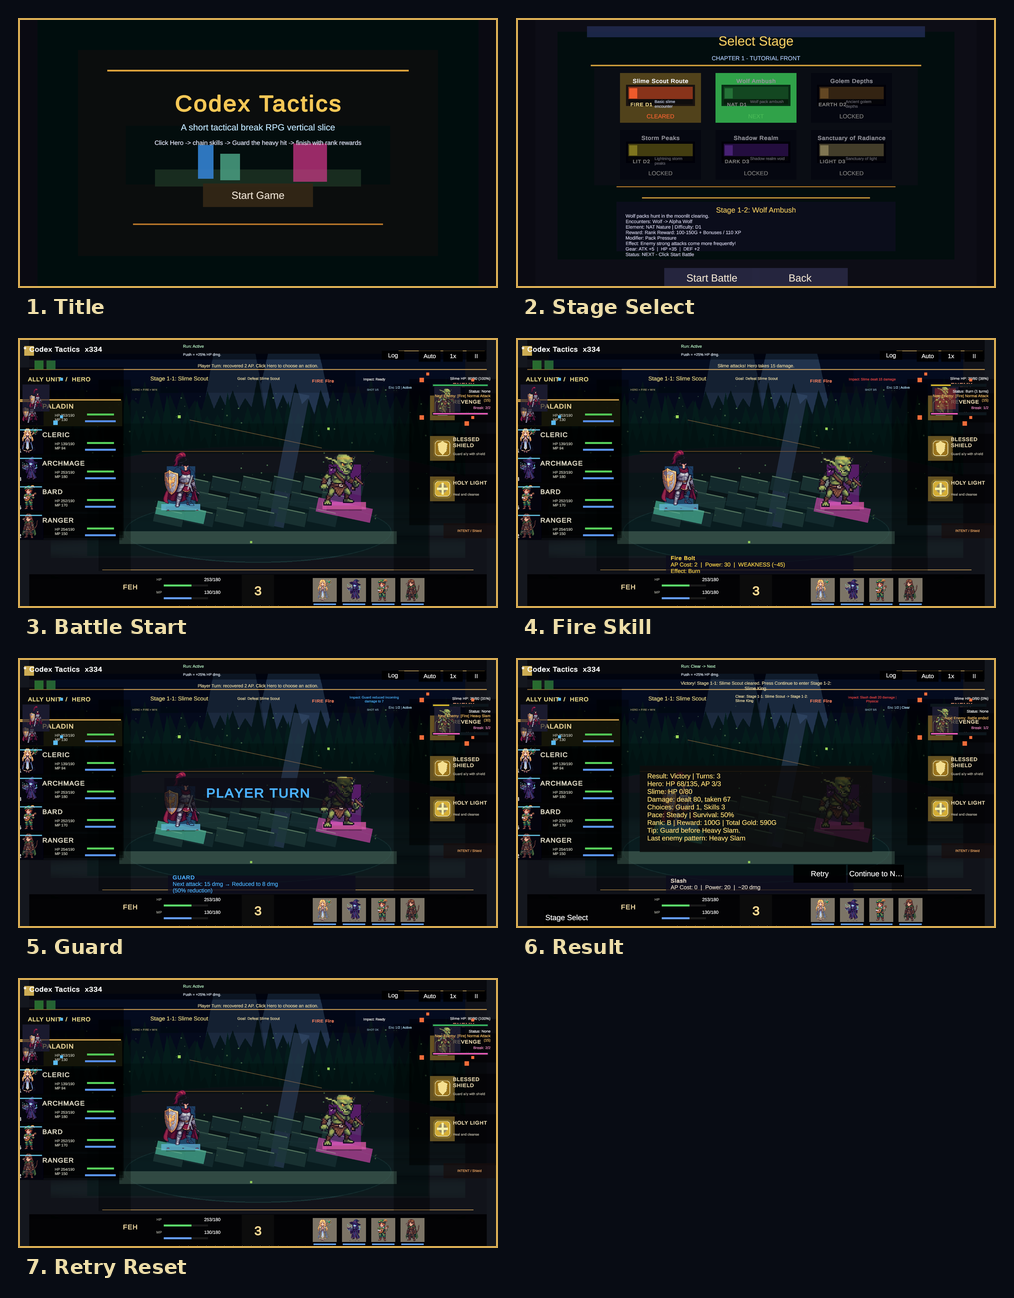
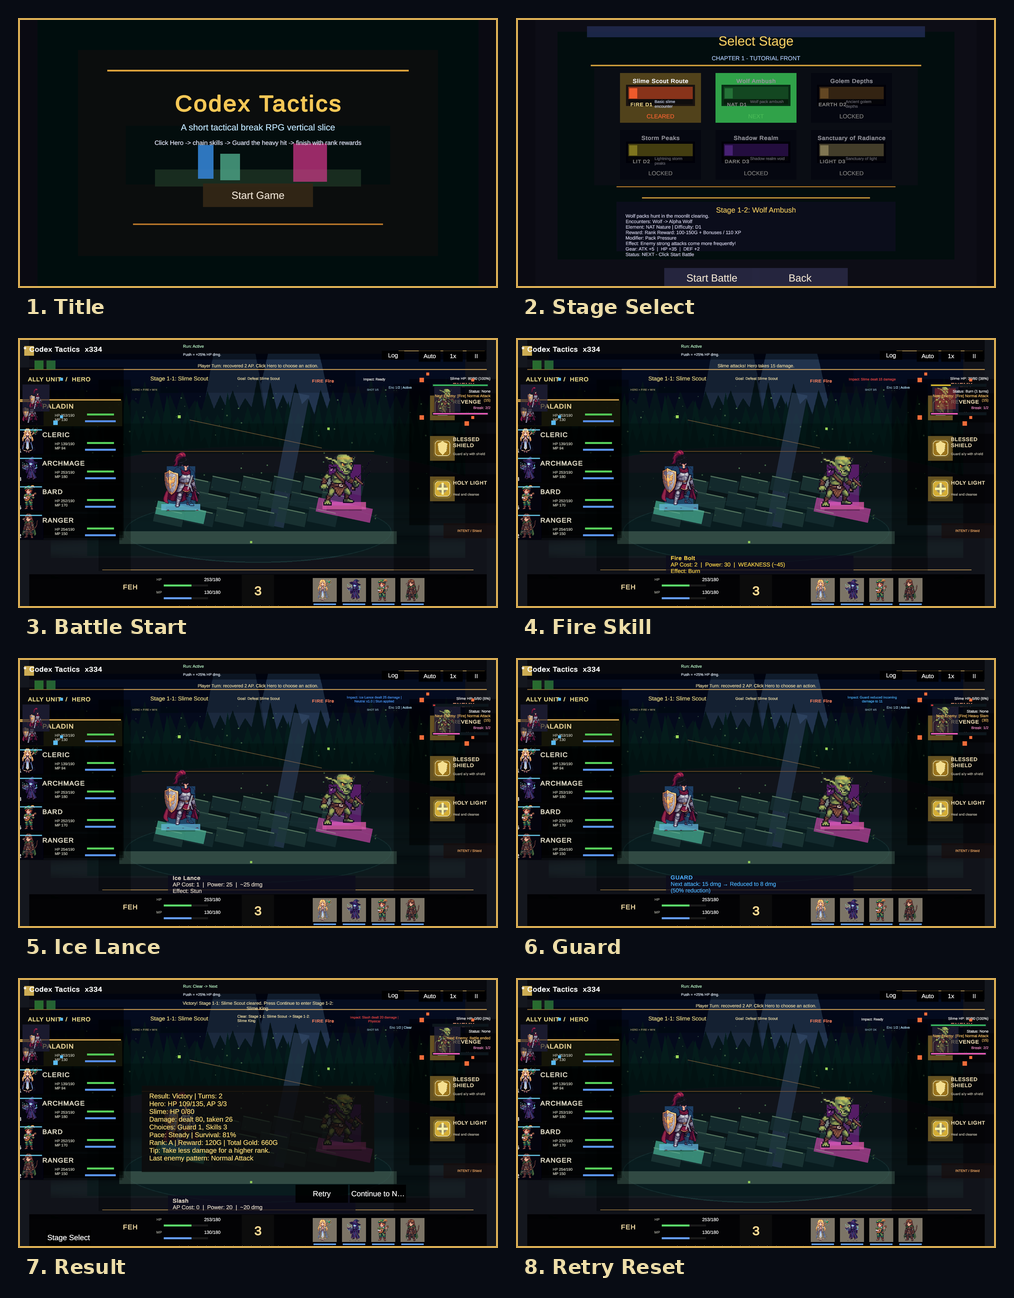
Add ice lance capture evidence

diff --git a/GamePortfolio/Docs/Captures/build_capture_contact_sheet.py b/GamePortfolio/Docs/Captures/build_capture_contact_sheet.py
@@ -1,0 +1,76 @@
+#!/usr/bin/env python3
+"""Build the portfolio capture contact sheet from deterministic capture PNGs.
+
+Run from the Unity project root:
+
+    python3 Docs/Captures/build_capture_contact_sheet.py
+"""
+
+from __future__ import annotations
+
+from pathlib import Path
+from typing import Any
+
+from PIL import Image, ImageDraw, ImageFont
+
+CAPTURE_DIR = Path(__file__).resolve().parent
+OUTPUT = CAPTURE_DIR / "capture_contact_sheet.png"
+THUMB_SIZE = (480, 270)
+PADDING = 18
+LABEL_HEIGHT = 32
+COLUMNS = 2
+ITEMS = [
+    ("1. Title", "00_title_scene.png"),
+    ("2. Stage Select", "00_stage_select_scene.png"),
+    ("3. Battle Start", "01_battle_start.png"),
+    ("4. Fire Skill", "02_fire_skill_burn.png"),
+    ("5. Ice Lance", "03_ice_lance_stun.png"),
+    ("6. Guard", "03_guard_status.png"),
+    ("7. Result", "04_result_summary_rank.png"),
+    ("8. Retry Reset", "05_retry_reset.png"),
+]
+
+
+def load_font(size: int) -> Any:
+    for candidate in [
+        "/usr/share/fonts/truetype/dejavu/DejaVuSans-Bold.ttf",
+        "/usr/share/fonts/truetype/liberation2/LiberationSans-Bold.ttf",
+    ]:
+        path = Path(candidate)
+        if path.exists():
+            return ImageFont.truetype(str(path), size)
+    return ImageFont.load_default()
+
+
+def main() -> None:
+    missing = [filename for _, filename in ITEMS if not (CAPTURE_DIR / filename).exists()]
+    if missing:
+        raise SystemExit("Missing capture PNGs: " + ", ".join(missing))
+
+    rows = (len(ITEMS) + COLUMNS - 1) // COLUMNS
+    width = COLUMNS * (THUMB_SIZE[0] + PADDING) + PADDING
+    height = rows * (THUMB_SIZE[1] + LABEL_HEIGHT + PADDING) + PADDING
+    sheet = Image.new("RGB", (width, height), (8, 12, 20))
+    draw = ImageDraw.Draw(sheet)
+    font = load_font(20)
+
+    for index, (label, filename) in enumerate(ITEMS):
+        with Image.open(CAPTURE_DIR / filename) as source:
+            thumb = source.convert("RGB").resize(THUMB_SIZE, Image.Resampling.LANCZOS)
+        x = PADDING + (index % COLUMNS) * (THUMB_SIZE[0] + PADDING)
+        y = PADDING + (index // COLUMNS) * (THUMB_SIZE[1] + LABEL_HEIGHT + PADDING)
+        sheet.paste(thumb, (x, y))
+        draw.rectangle(
+            [x, y, x + THUMB_SIZE[0] - 1, y + THUMB_SIZE[1] - 1],
+            outline=(214, 171, 83),
+            width=2,
+        )
+        draw.text((x + 8, y + THUMB_SIZE[1] + 7), label, fill=(240, 224, 170), font=font)
+
+    sheet.save(OUTPUT, optimize=True)
+    print(f"Wrote {OUTPUT}")
+    print(f"Contact sheet: {width}x{height}, {len(ITEMS)} captures, {OUTPUT.stat().st_size} bytes")
+
+
+if __name__ == "__main__":
+    main()

diff --git a/GamePortfolio/Assets/Scripts/ScreenshotCaptureJob.cs b/GamePortfolio/Assets/Scripts/ScreenshotCaptureJob.cs
@@ -105,6 +105,21 @@ public class ScreenshotCaptureJob : MonoBehaviour
         Debug.Log($"[Capture] Saved ({bytes.Length} bytes): {path}");
     }
 
+    private static void PreparePortfolioCaptureProgress()
+    {
+        // Keep standalone capture evidence deterministic and showcase-ready even when the
+        // local save file is fresh or stale. Unlocking through ProgressState only affects
+        // the transient capture run; it does not write to SaveManager.
+        ProgressState.Reset();
+        ProgressState.MarkStageCompleted(0);
+        ProgressState.MarkStageCompleted(1);
+        ProgressState.MarkStageCompleted(2);
+        ProgressState.PlayerLevel = 3;
+        ProgressState.PlayerXp = 40;
+        ProgressState.TotalGold = 480;
+        ProgressState.EnsureStarterEquipment();
+    }
+
     private IEnumerator CaptureSequence()
     {
         yield return new WaitForSeconds(1.5f);
@@ -127,7 +142,8 @@ public class ScreenshotCaptureJob : MonoBehaviour
             yield break;
         }
 
-        Debug.Log("[Capture] BattleManager found. Starting capture.");
+        PreparePortfolioCaptureProgress();
+        Debug.Log("[Capture] BattleManager found. Starting capture with showcase skill unlocks.");
 
         yield return Capture("01_battle_start.png");
         yield return new WaitForSeconds(1.0f);
@@ -135,6 +151,11 @@ public class ScreenshotCaptureJob : MonoBehaviour
         manager.OnClickFireSkillButton();
         yield return new WaitForSeconds(4.0f);
         yield return Capture("02_fire_skill_burn.png");
+        yield return new WaitForSeconds(0.5f);
+
+        manager.OnClickIceSkillButton();
+        yield return new WaitForSeconds(4.0f);
+        yield return Capture("03_ice_lance_stun.png");
         yield return new WaitForSeconds(0.5f);
 
         manager.OnClickGuardButton();

diff --git a/GamePortfolio/Docs/Captures/build_runtime_motion_storyboard.py b/GamePortfolio/Docs/Captures/build_runtime_motion_storyboard.py
@@ -40,7 +40,8 @@ class Beat:
 # Use the frames most likely to show motion/VFX/readable combat feedback.
 BEATS = [
     Beat("01_battle_start.png", "Runtime setup: selected ally, tactical HUD, target lane", 5, 1.00, 1.03, -0.05, -0.02),
-    Beat("02_fire_skill_burn.png", "Action beat: Fire Skill impact, projectile/VFX, Burn feedback", 7, 1.02, 1.10, 0.12, -0.03),
+    Beat("02_fire_skill_burn.png", "Action beat: Fire Skill impact, projectile/VFX, Burn feedback", 6, 1.02, 1.10, 0.12, -0.03),
+    Beat("03_ice_lance_stun.png", "Action beat: Ice Lance follow-up and Stun feedback", 6, 1.02, 1.09, 0.10, -0.02),
     Beat("03_guard_status.png", "Defense beat: Guard status and enemy-response readability", 6, 1.00, 1.07, -0.10, 0.04),
     Beat("04_result_summary_rank.png", "Resolution beat: result metrics, rank, reward, clear state", 6, 1.01, 1.05, 0.02, 0.08),
     Beat("05_retry_reset.png", "Loop beat: retry reset ready for another run", 5, 1.00, 1.04, -0.04, -0.05),
@@ -170,8 +171,11 @@ def validate_output(expected_frames: int) -> None:
         raise SystemExit(f"Motion storyboard GIF is too large for README use: {size} bytes")
 
     with Image.open(PREVIEW_SHEET) as preview:
-        if preview.size != (240 * len(BEATS), 135):
-            raise SystemExit(f"Unexpected preview sheet size: {preview.size}")
+        columns = 5
+        rows = (len(BEATS) + columns - 1) // columns
+        expected_preview_size = (240 * columns, 135 * rows)
+        if preview.size != expected_preview_size:
+            raise SystemExit(f"Unexpected preview sheet size: {preview.size}, expected {expected_preview_size}")
 
 
 def main() -> None:

diff --git a/GamePortfolio/Docs/Captures/build_readme_gif.py b/GamePortfolio/Docs/Captures/build_readme_gif.py
@@ -25,8 +25,9 @@ FRAMES = [
     ("00_title_scene.png", "Title -> Stage Select -> Battle vertical slice", 850),
     ("00_stage_select_scene.png", "Stage Select: modifier preview and start flow", 950),
     ("01_battle_start.png", "Battle start: tactical HUD, HP/AP bars, rosters", 950),
-    ("02_fire_skill_burn.png", "Fire Skill: projectile, impact, Burn feedback", 1100),
-    ("03_guard_status.png", "Guard: defensive status and enemy response", 1100),
+    ("02_fire_skill_burn.png", "Fire Skill: projectile, impact, Burn feedback", 1050),
+    ("03_ice_lance_stun.png", "Ice Lance: second skill beat and Stun feedback", 1050),
+    ("03_guard_status.png", "Guard: defensive status and enemy response", 1050),
     ("04_result_summary_rank.png", "Result: rank, reward, damage metrics", 1300),
     ("05_retry_reset.png", "Retry: loop resets cleanly for another run", 900),
 ]

diff --git a/GamePortfolio/Docs/Devlog/2026-06-09_batch101_ice-lance-capture-evidence.md b/GamePortfolio/Docs/Devlog/2026-06-09_batch101_ice-lance-capture-evidence.md
@@ -1,0 +1,26 @@
+# Batch 101 — Ice Lance Capture Evidence
+
+## Goal
+
+Add a second skill-feedback proof point to the portfolio capture loop so the README GIF shows more than Fire/Burn before Guard/Result.
+
+## Changes
+
+- Added a deterministic portfolio capture progress setup inside `ScreenshotCaptureJob` so standalone capture runs temporarily unlock Fire/Ice/Earth without depending on the user's local save file.
+- Inserted a new `03_ice_lance_stun.png` capture between Fire Skill and Guard.
+- Updated README GIF and runtime storyboard builders to include the Ice Lance/Stun frame.
+- Added `build_capture_contact_sheet.py` so the contact sheet can be regenerated reproducibly instead of relying on ad-hoc Python snippets.
+- Updated README and showcase checklist to mark Ice Lance/Stun GIF evidence complete.
+
+## Verification
+
+- C# delimiter static check: PASS.
+- Python compile checks for capture scripts: PASS.
+- `BattleAutoTestRunner.RunBattleLogicAutoTest`: PASS.
+- `CaptureScreenshots.Run`: PASS (`Build succeeded`).
+- Standalone `CaptureRunner.exe -capture -force-d3d11`: PASS.
+- `03_ice_lance_stun.png`: PASS, 1920x1080, non-blank.
+- `build_readme_gif.py`: PASS, 8-frame 960x540 GIF.
+- `build_runtime_motion_storyboard.py`: PASS, 34-frame 960x540 GIF.
+- `build_capture_contact_sheet.py`: PASS, 8-capture contact sheet.
+- Contact sheet visual QA: PASS — all 8 frames are readable; no black/white capture failures.

diff --git a/GamePortfolio/Docs/PortfolioShowcaseDraft.md b/GamePortfolio/Docs/PortfolioShowcaseDraft.md
@@ -233,7 +233,7 @@ Note: Batch 83 changed documentation only, so Unity compile was not rerun for th
 - [x] Stage Select with unlocked/locked cards and modifier text
 - [x] Battle HUD showing HP/AP bars, enemy element badge, and tactical layout
 - [x] Fire Bolt + Burn feedback
-- [ ] Ice Lance + Stun feedback GIF
+- [x] Ice Lance + Stun feedback GIF
 - [ ] Break gauge depletion and Break bonus
 - [ ] Stage 4 Storm Surge activation
 - [ ] Stage 5 Void Drain AP drain / AP-empty HP damage
